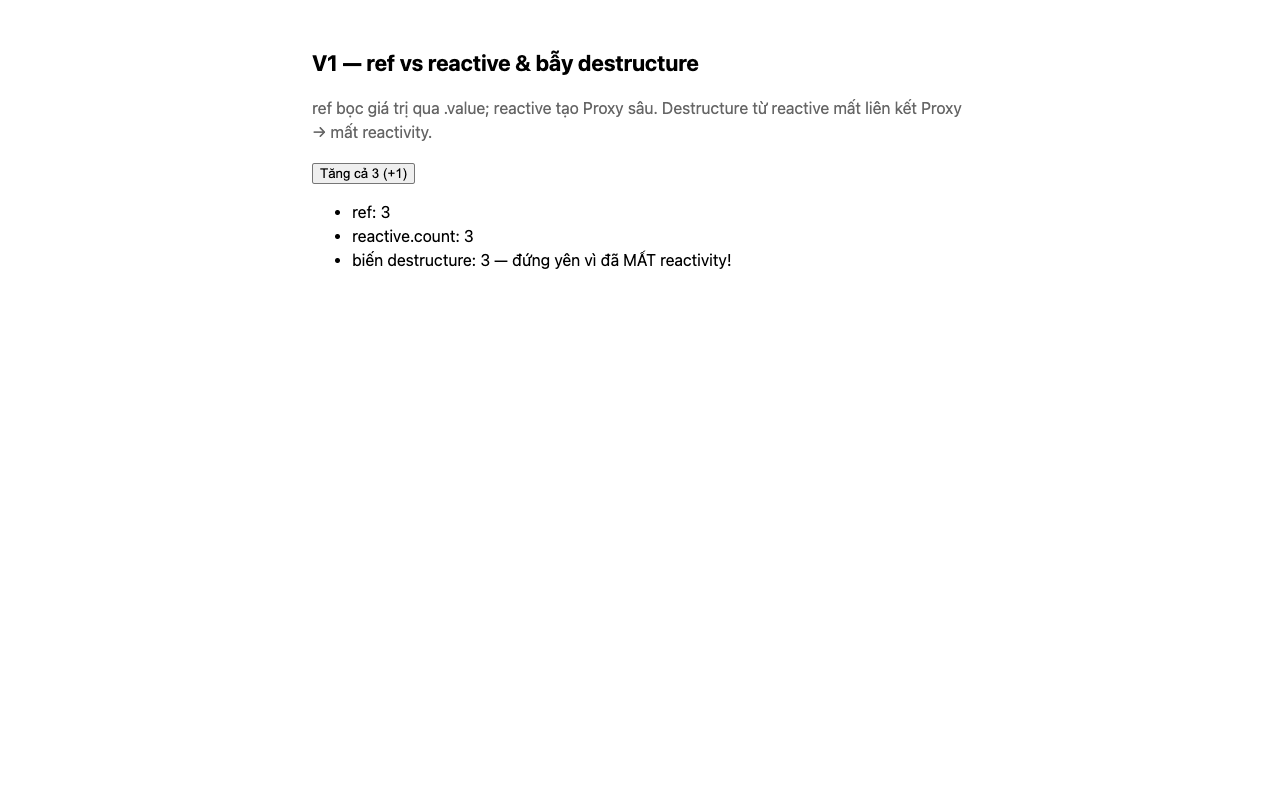
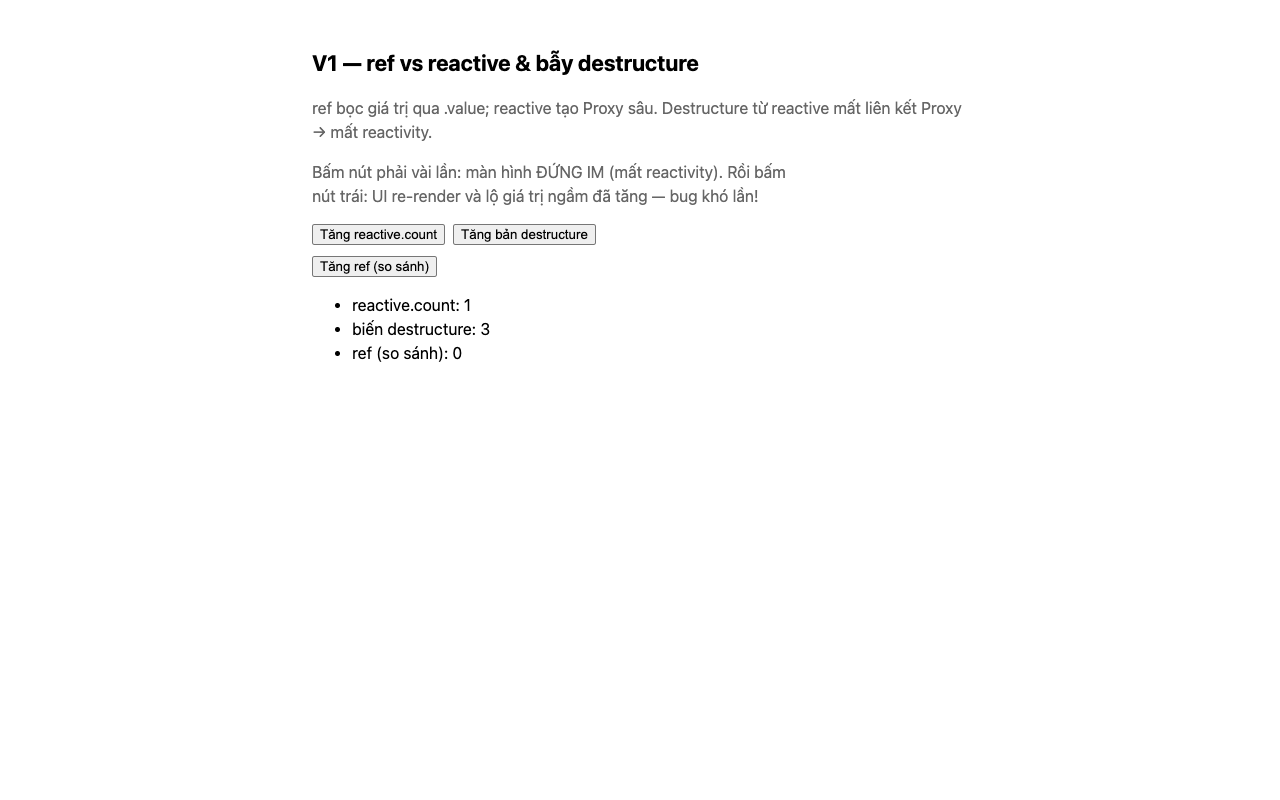
fix: vue-qa V1 — ví dụ destructure trung thực (UI đứng im rồi lộ giá trị ngầm)

Changed region(s): [[0.25, 0.1875, 0.625, 0.3438], [0.2812, 0.375, 0.375, 0.4688]]

diff --git a/demo-fe-interview/vue-qa/src/questions/V1RefReactive.vue b/demo-fe-interview/vue-qa/src/questions/V1RefReactive.vue
@@ -1,23 +1,41 @@
 <script setup lang="ts">
 import {reactive, ref} from 'vue';
 
-const counterRef = ref(0);
 const state = reactive({count: 0});
 // BẪY: destructure từ reactive → biến thường, MẤT reactivity
 let {count: broken} = state;
 
-function tangCa3() {
-  counterRef.value++;
+// So sánh thêm: ref (qua .value) không dính bẫy destructure kiểu này
+const counterRef = ref(0);
+
+function tangReactive() {
   state.count++;
-  broken++; // biến này tăng nhưng UI không bao giờ thấy
+}
+
+function tangBroken() {
+  broken++; // tăng thật, nhưng Vue không track được nên không tự re-render
+}
+
+function tangRef() {
+  counterRef.value++;
 }
 </script>
 
 <template>
-  <button @click="tangCa3">Tăng cả 3 (+1)</button>
+  <p style="color: #666; max-width: 480px;">
+    Bấm nút phải vài lần: màn hình ĐỨNG IM (mất reactivity). Rồi bấm nút
+    trái: UI re-render và lộ giá trị ngầm đã tăng — bug khó lần!
+  </p>
+  <div style="display: flex; gap: 8px; flex-wrap: wrap;">
+    <button @click="tangReactive">Tăng reactive.count</button>
+    <button @click="tangBroken">Tăng bản destructure</button>
+  </div>
+  <div style="margin-top: 8px;">
+    <button @click="tangRef">Tăng ref (so sánh)</button>
+  </div>
   <ul>
-    <li>ref: {{ counterRef }}</li>
     <li>reactive.count: {{ state.count }}</li>
-    <li>biến destructure: {{ broken }} — đứng yên vì đã MẤT reactivity!</li>
+    <li>biến destructure: {{ broken }}</li>
+    <li>ref (so sánh): {{ counterRef }}</li>
   </ul>
 </template>
